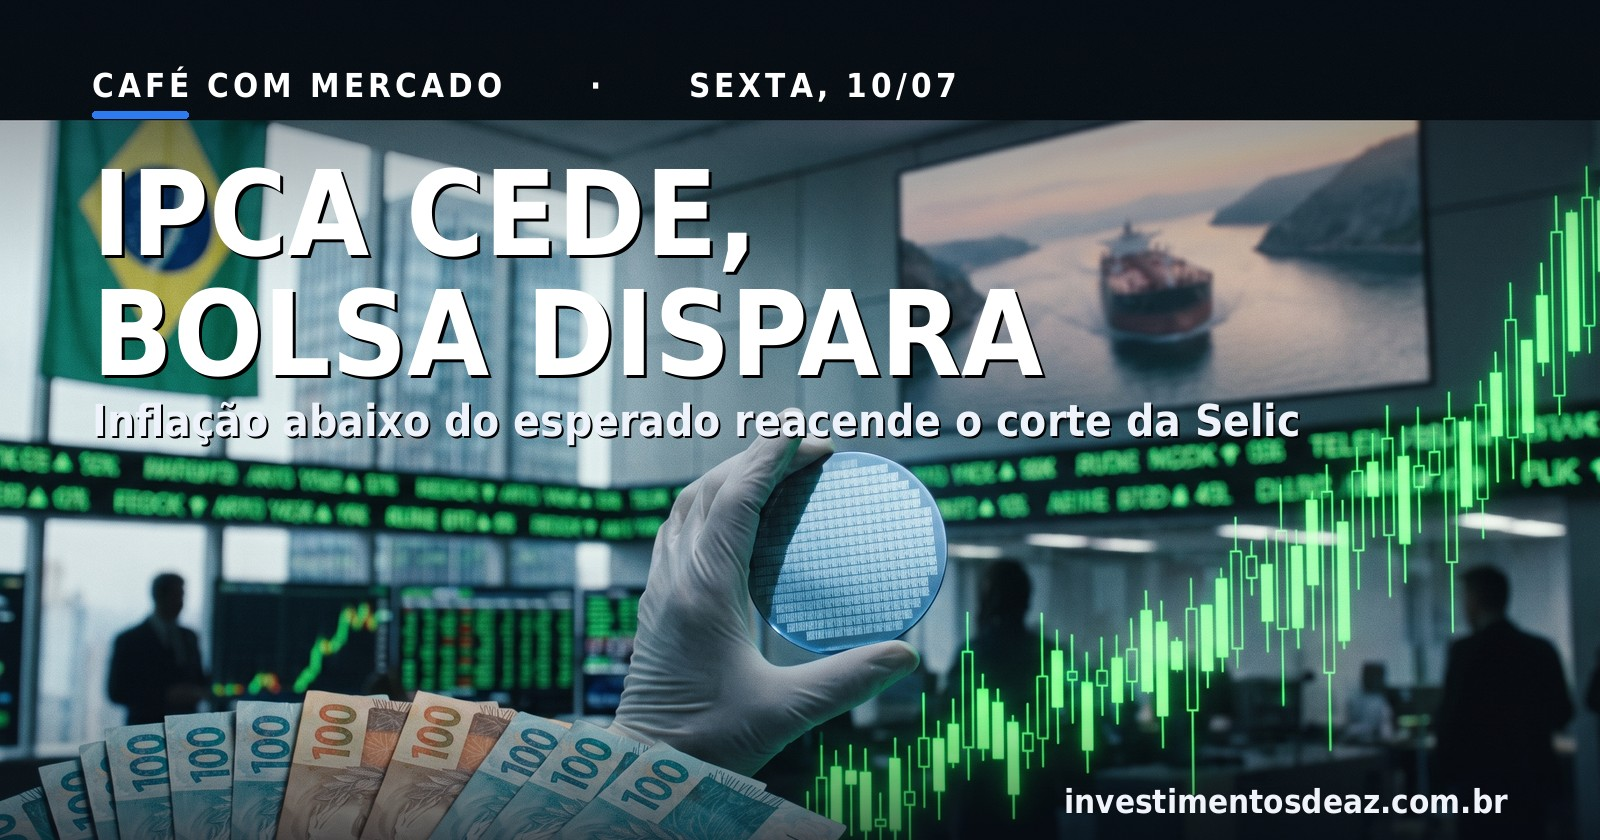
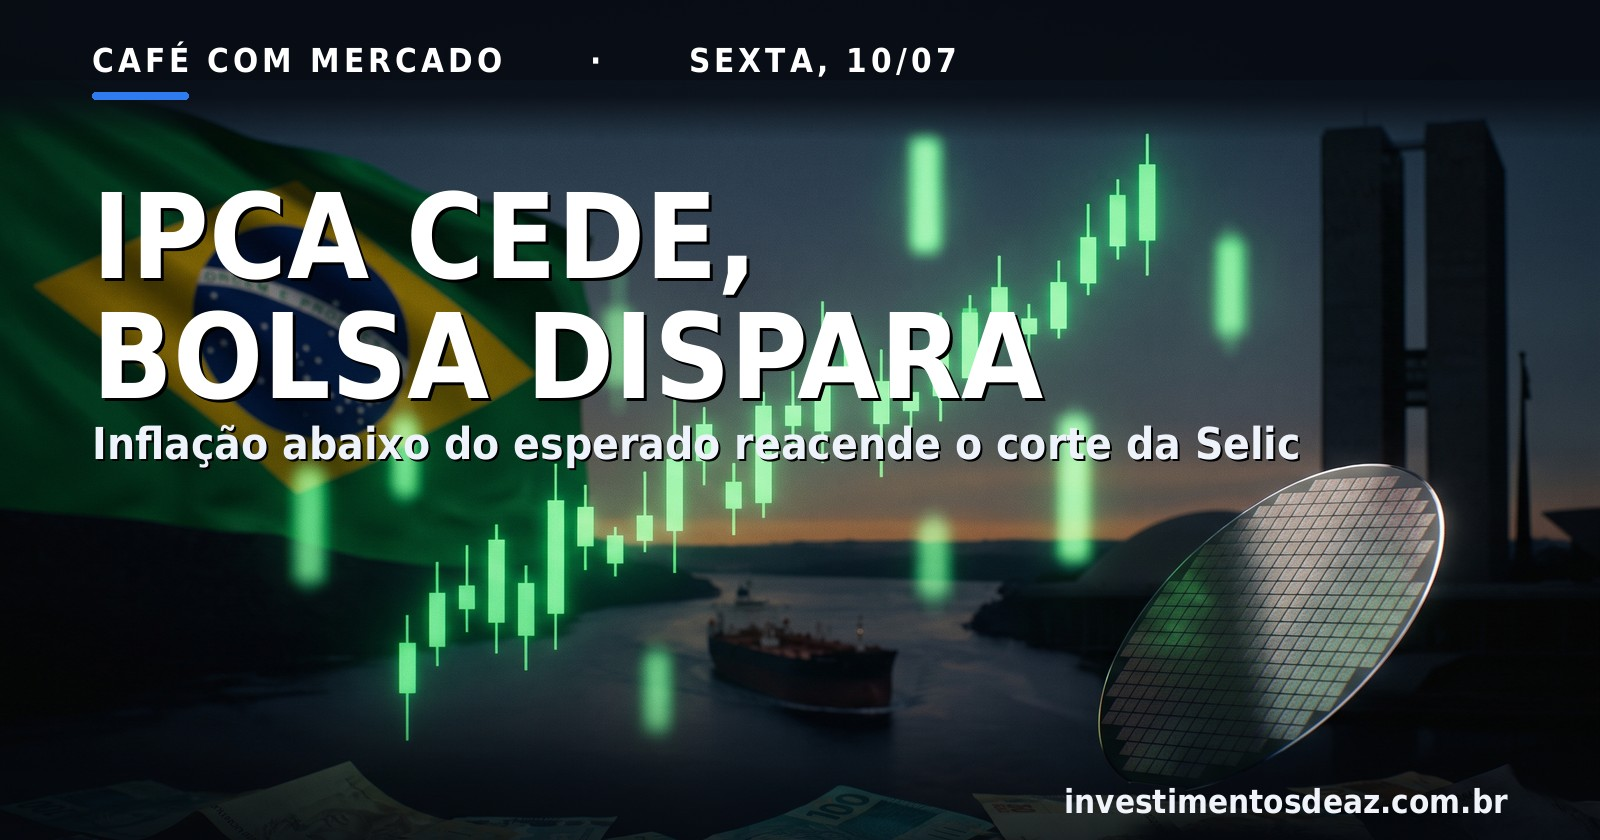
content(cafe): capa 10/07 kicker centralizado + base escura (#5)
compose-capa.py: faixa superior definida (largura total, borda suave) com o
kicker centralizado verticalmente, como nas capas padrao. Recompoe a capa de
10/07 sobre base escura/cinematografica (bolsa em alta).

Claude-Session: https://claude.ai/code/session_01RifbnJoQ8vyAgi9pfYipkW

diff --git a/agent/compose-capa.py b/agent/compose-capa.py
@@ -69,8 +69,17 @@ def main():
             gd.line([(0, y), (W, y)], fill=base_rgb + (int(amax * t ** power),))
         im.paste(g, (0, 0 if top_edge else H - h), g)
 
-    grad(300, True, (8, 12, 22), 150, 1.3)
-    grad(150, False, (6, 10, 18), 150, 1.4)
+    grad(150, False, (6, 10, 18), 150, 1.4)  # rodapé (marca)
+
+    # faixa superior DEFINIDA (largura total, borda inferior suave) — o kicker é
+    # centralizado verticalmente nela, como nas capas padrão.
+    BAND_H, FADE = 140, 44
+    top = Image.new("RGBA", (W, BAND_H), (0, 0, 0, 0))
+    td = ImageDraw.Draw(top)
+    for y in range(BAND_H):
+        av = 216 if y < BAND_H - FADE else int(216 * (1 - (y - (BAND_H - FADE)) / FADE))
+        td.line([(0, y), (W, y)], fill=(8, 12, 20, av))
+    im.paste(top, (0, 0), top)
 
     def font(sz):
         return ImageFont.truetype(font_path, sz)
@@ -99,13 +108,16 @@ def main():
 
     maxw = W - 2 * MARGIN
 
+    # kicker + barra azul, centralizados verticalmente na faixa
     fk = font(33)
-    ky = 66
-    tracked(MARGIN, ky, kicker, fk, (255, 255, 255, 255), 4)
-    by = ky + fk.size + 12
-    draw.rounded_rectangle([MARGIN, by, MARGIN + 96, by + 7], radius=3, fill=BLUE)
+    kb = draw.textbbox((0, 0), kicker, font=fk)
+    kh, gap, bar_h = kb[3] - kb[1], 15, 7
+    group_top = (BAND_H - (kh + gap + bar_h)) // 2
+    tracked(MARGIN, group_top - kb[1], kicker, fk, (255, 255, 255, 255), 4)
+    by = group_top + kh + gap
+    draw.rounded_rectangle([MARGIN, by, MARGIN + 96, by + bar_h], radius=3, fill=BLUE)
 
-    hy = by + 34
+    hy = BAND_H + 28
     hsz, fh = 118, font(118)
     lines = wrap_balanced(a.head, fh, maxw)
     while (len(lines) > 2 or any(tw(l, fh) > maxw for l in lines)) and hsz > 72: